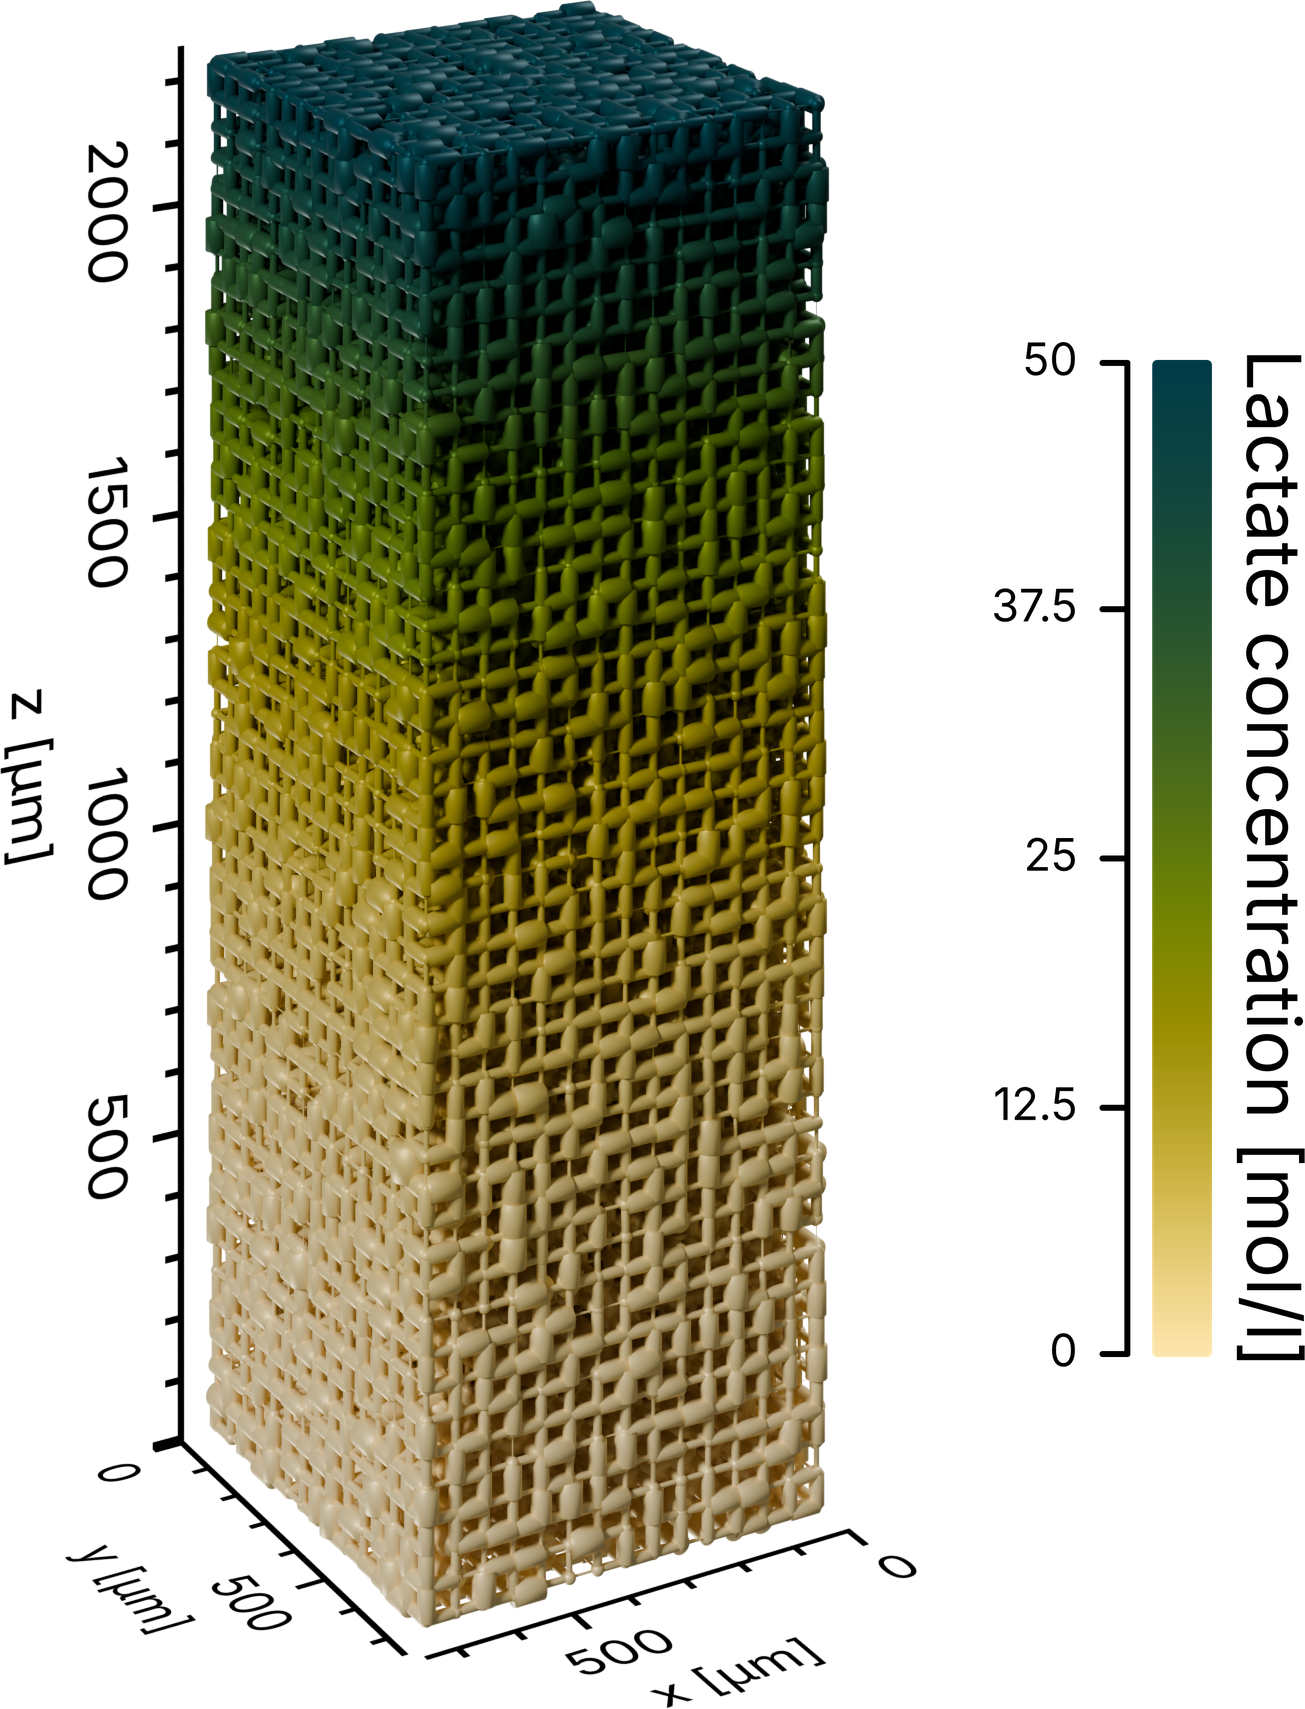
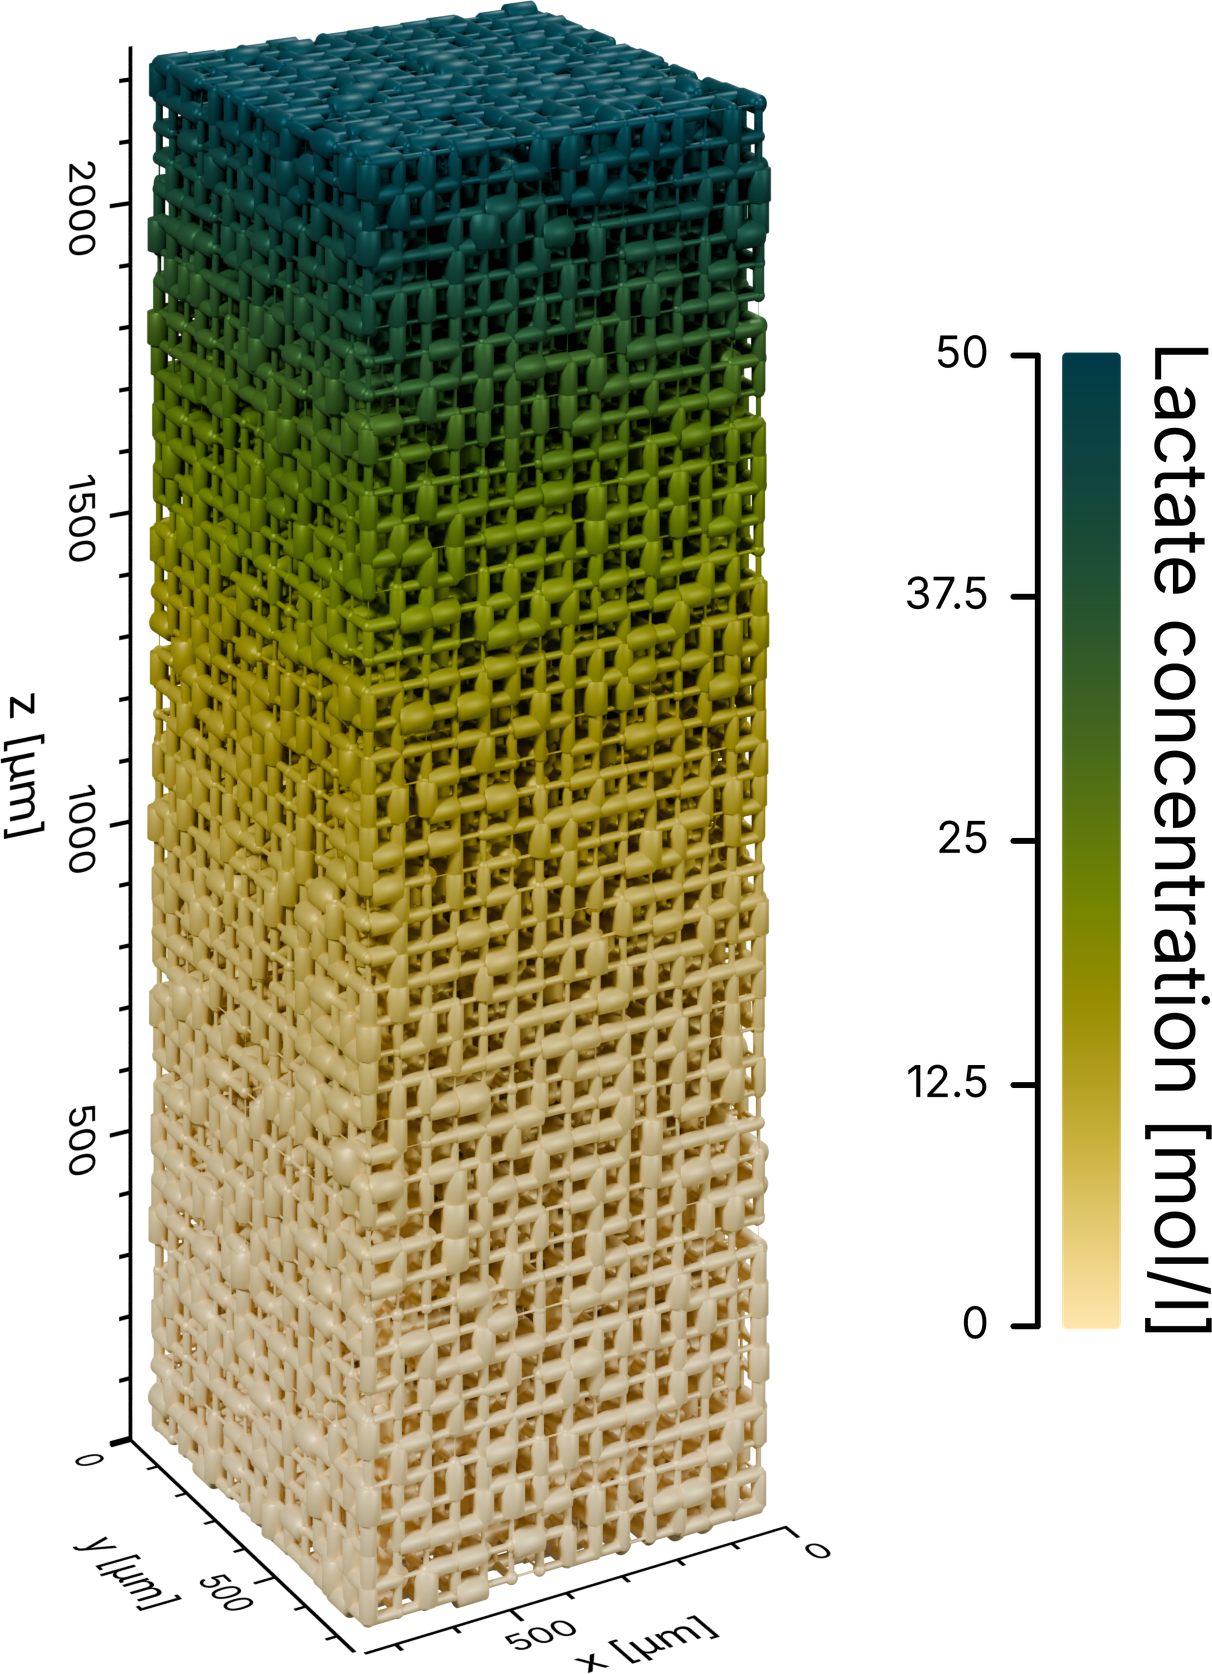
Update carousel images

diff --git a/docs/source/index.rst b/docs/source/index.rst
@@ -22,7 +22,7 @@ papers, presentations, and animations.
 
    .. figure:: /_static/image/carousel/startpage/slide-1.png
 
-      Pore and throat morphology of a artificial cuboid pore network.
+      Pore and throat morphology of a reconstructed pore network.
 
    .. figure:: /_static/image/carousel/startpage/slide-2.png
 
